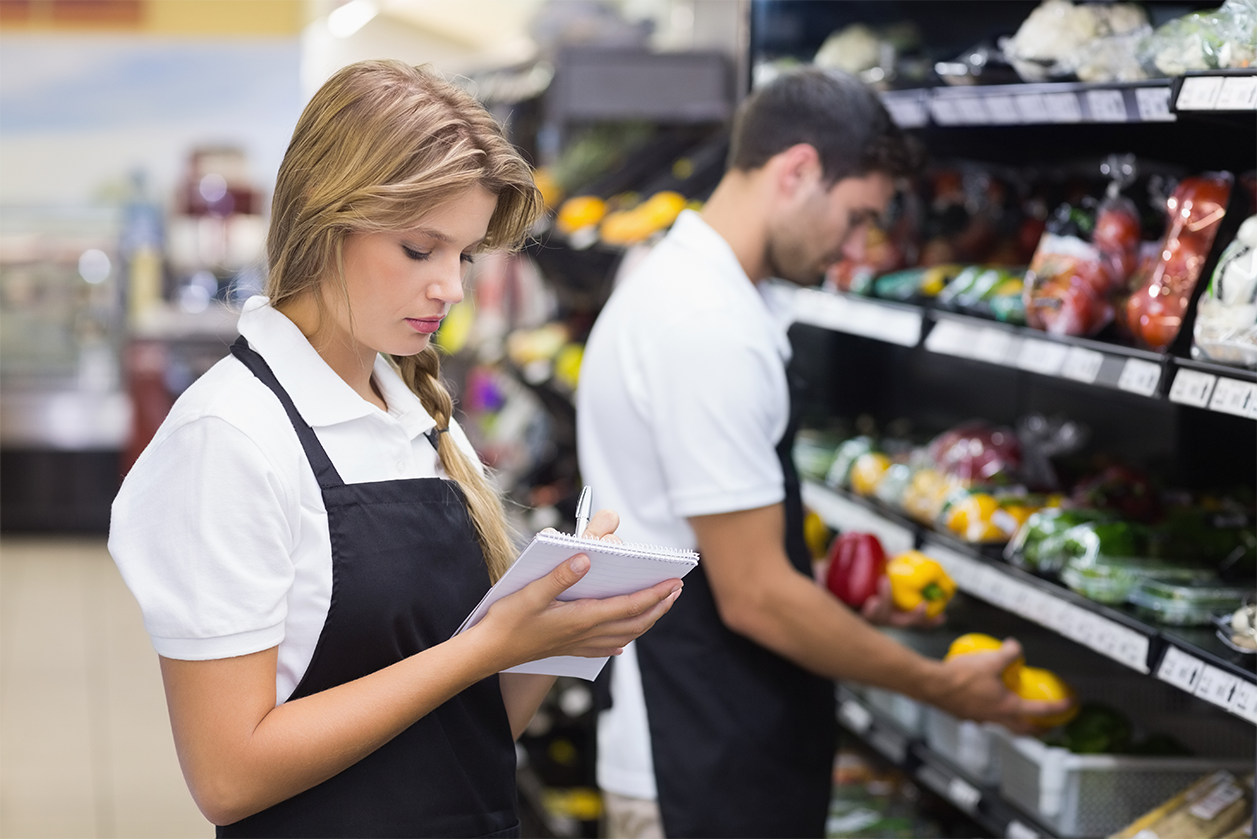
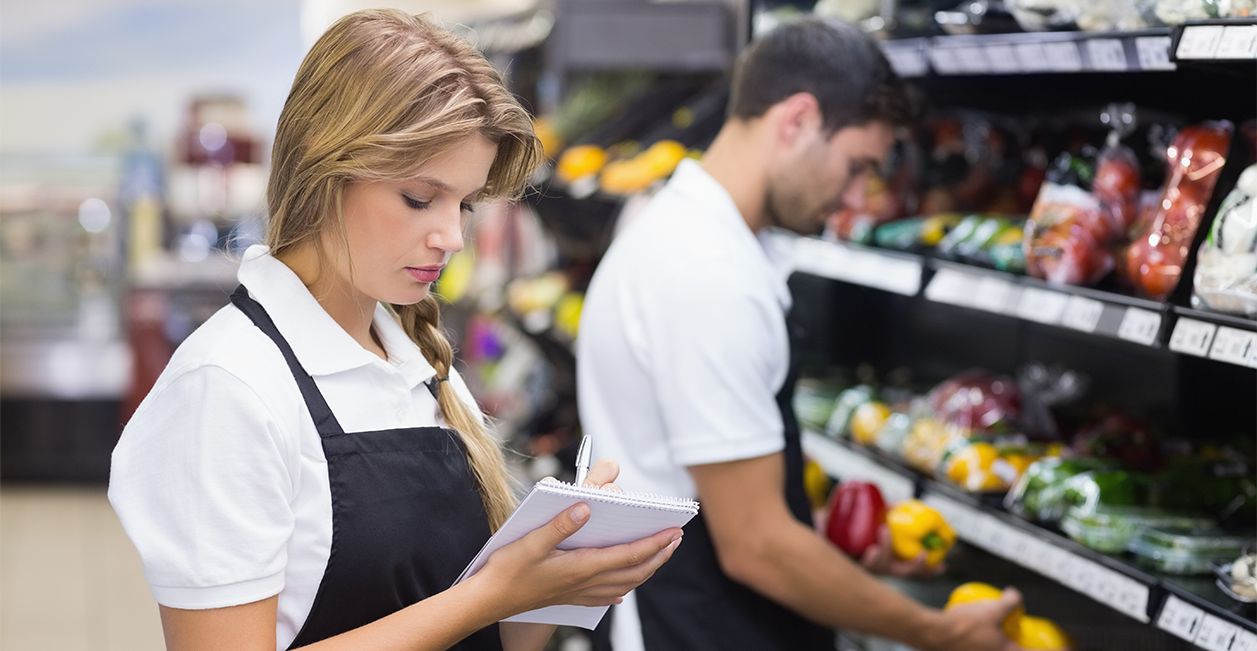
BB-4625: Update category sample data  - update slider demo data and template

diff --git a/src/Oro/Bundle/CatalogBundle/Resources/public/default/scss/components/hero-promo-item/hero-promo-item.scss b/src/Oro/Bundle/CatalogBundle/Resources/public/default/scss/components/hero-promo-item/hero-promo-item.scss
@@ -1,44 +1,31 @@
 .hero-promo-item {
-    display: flex;
+    position: relative;
+
     margin-top: 26px;
 
     font-size: 0;
 
-    &__picture,
     &__info {
+        position: absolute;
+        top: 50%;
+        right: 0;
+        transform: translate(0, -50%);
+
+        width: 36.54%;
+
         display: inline-block;
 
         font-size: $base-font-size;
-
-        border: 1px solid $base-border-color;
-    }
-
-    &__picture {
-        width: 63.46%;
-    }
-
-    &__info {
-        position: relative;
-
-        width: 36.54%;
     }
 
     &__img {
         display: block;
-        max-width: 100%;
+        width: 100%;
     }
 
     &__cover {
-        position: absolute;
-        top: 0;
-        right: 0;
-        bottom: 0;
-        left: 0;
-
         text-align: center;
         white-space: nowrap;
-
-        background: rgba(87,47,46, .5);
 
         &:before {
             display: inline-block;
@@ -65,7 +52,7 @@
         font: italic 700 22px serif;
         text-align: center;
 
-        color: $base-white-color;
+        color: $base-dark-color;
     }
 
     &__title {
@@ -75,7 +62,7 @@
         line-height: 64px;
         text-align: center;
 
-        color: $base-white-color;
+        color: $base-dark-color;
     }
 
     &__view-btn {

diff --git a/src/Oro/Bundle/CatalogBundle/Resources/public/default/scss/components/hero-promo/hero-promo.scss b/src/Oro/Bundle/CatalogBundle/Resources/public/default/scss/components/hero-promo/hero-promo.scss
@@ -10,4 +10,12 @@
     .slick-dots {
         bottom: $offset-y-m;
     }
+
+    .embedded-list__item {
+        &:not(:first-child)&:not(.slick-slide) {
+            //hide until slick not loaded
+            display: none;
+        }
+        width: 100%;
+    }
 }
